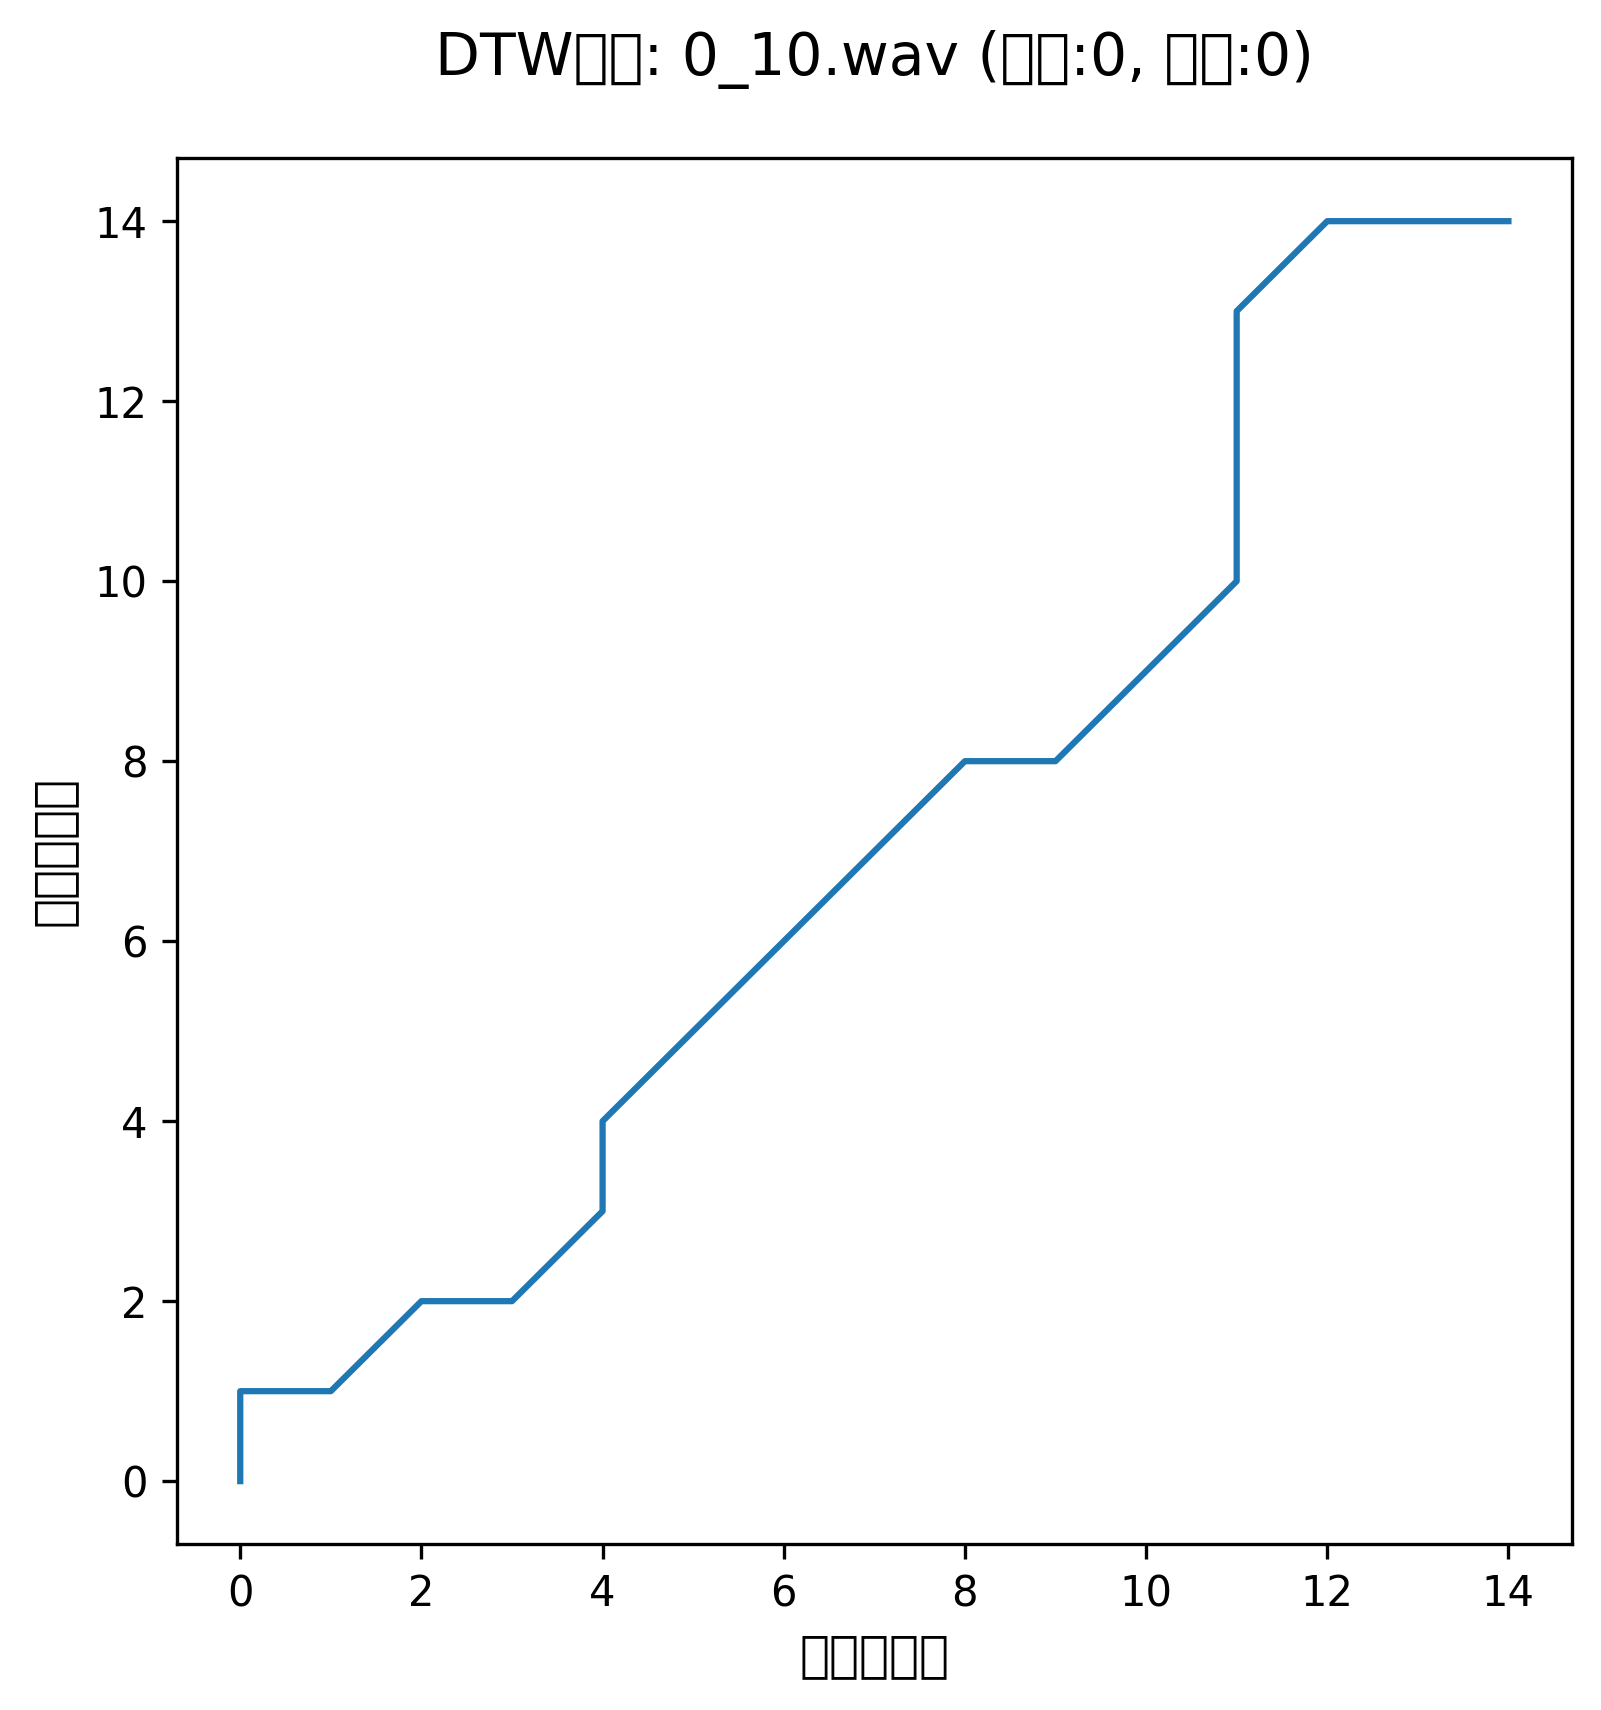
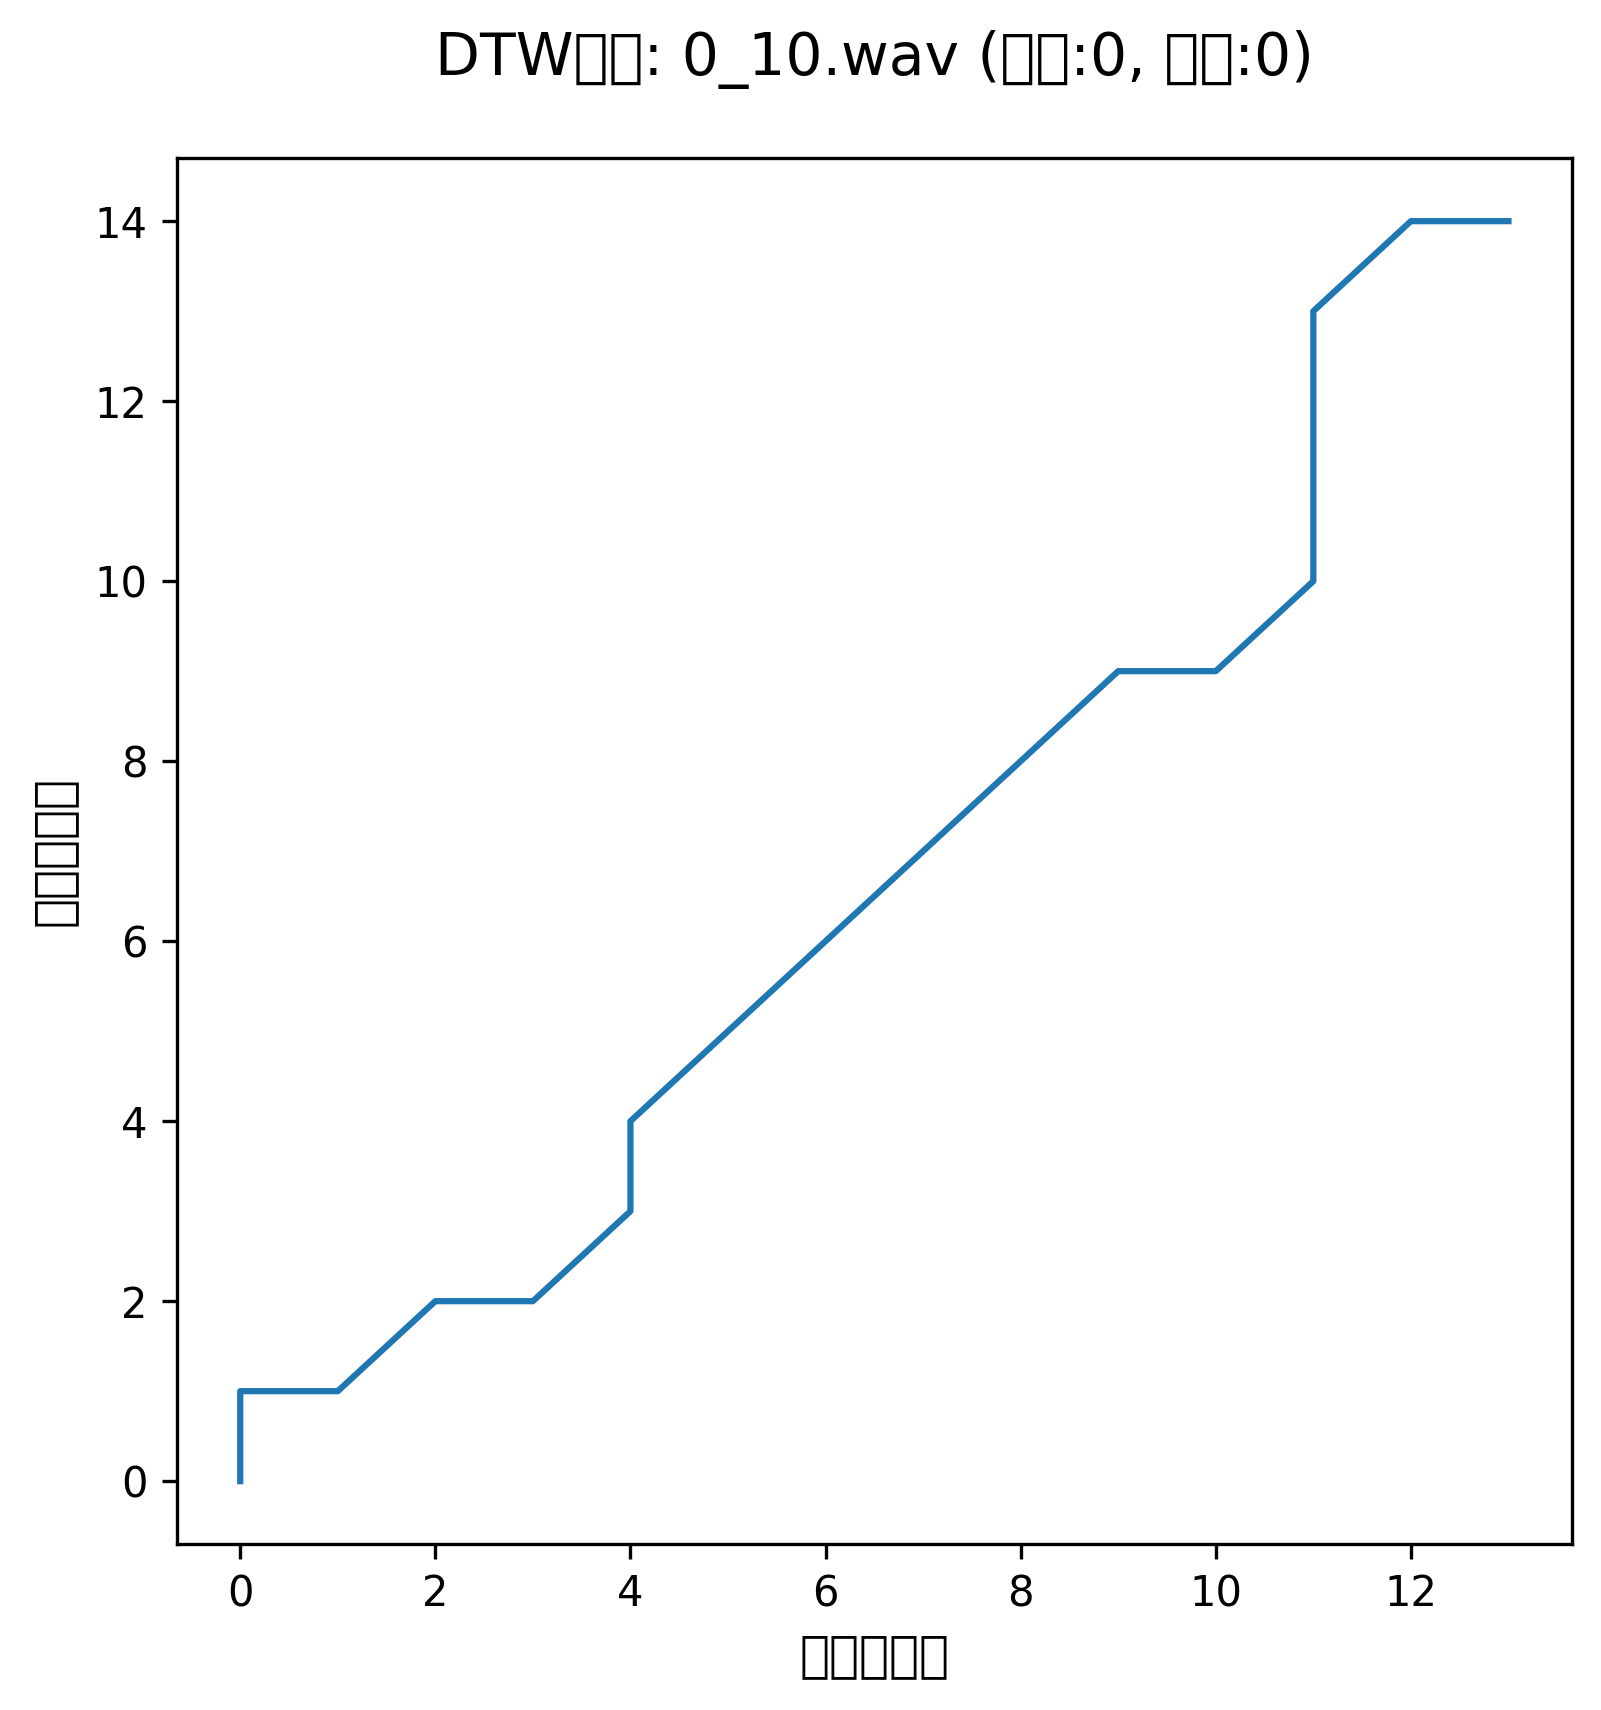
归一化优化算法逻辑

diff --git a/exp3/src/features.py b/exp3/src/features.py
@@ -18,7 +18,7 @@ import numpy as np
 
 def extract_mfcc(file_path):
     """
-    从音频文件中提取MFCC特征
+    从音频文件中提取MFCC特征 (包含静音消除和标准化)
     
     Args:
         file_path: 音频文件路径
@@ -26,13 +26,22 @@ def extract_mfcc(file_path):
     Returns:
         numpy.ndarray: MFCC特征数组，形状为 (n_mfcc, n_frames)
     """
-    # 加载音频文件（保持原始采样率）
+    # 1. 加载音频文件（保持原始采样率）
     y, sr = librosa.load(file_path, sr=None)
     
-    # 应用预加重
+    # --- 优化点1：静音消除 ---
+    # 去除首尾低于 30dB 的静音部分
+    # 这能防止大量静音帧干扰 DTW 匹配
+    y, _ = librosa.effects.trim(y, top_db=30)
+    
+    # 安全检查：如果剪切后音频太短（比如全是噪音被剪没了），这就重新加载原音频或保留部分
+    if len(y) < 1024:
+        y, sr = librosa.load(file_path, sr=None)
+
+    # 2. 应用预加重
     y = librosa.effects.preemphasis(y, coef=config.MFCC_PARAMS['preemph_coef'])
     
-    # 提取MFCC特征
+    # 3. 提取MFCC特征
     mfcc = librosa.feature.mfcc(
         y=y,
         sr=sr,
@@ -41,5 +50,12 @@ def extract_mfcc(file_path):
         hop_length=config.MFCC_PARAMS['hop_length']
     )
     
+    # --- 优化点2：特征标准化 (CMVN) ---
+    # Cepstral Mean and Variance Normalization
+    # 减去均值，除以标准差。消除信道噪声和音量差异的影响。
+    # axis=1 表示沿时间轴计算均值和方差
+    mfcc_mean = np.mean(mfcc, axis=1, keepdims=True)
+    mfcc_std = np.std(mfcc, axis=1, keepdims=True)
+    mfcc = (mfcc - mfcc_mean) / (mfcc_std + 1e-8) # 加极小值防止除零
+    
     return mfcc
-

diff --git a/exp3/src/dtw_core.py b/exp3/src/dtw_core.py
@@ -9,15 +9,20 @@ from dtw import dtw
 
 def calculate_dtw_distance(template_mfcc, input_mfcc):
     """
-    计算两个MFCC特征序列之间的DTW距离
+    计算两个MFCC特征序列之间的DTW距离 (经过长度归一化)
     
     Args:
         template_mfcc: 模板MFCC特征，形状为 (n_mfcc, n_frames)
         input_mfcc: 输入MFCC特征，形状为 (n_mfcc, n_frames)
     
     Returns:
-        float: DTW累计最小距离
+        float: 归一化后的DTW距离
     """
+    # 获取序列长度（帧数）
+    # shape[0]是特征维数(13)，shape[1]是时间帧数
+    len_template = template_mfcc.shape[1]
+    len_input = input_mfcc.shape[1]
+    
     # 注意：librosa输出为(n_features, n_frames)
     # 而dtw-python期望输入为(n_frames, n_features)
     # 因此需要转置
@@ -30,5 +35,10 @@ def calculate_dtw_distance(template_mfcc, input_mfcc):
         dist_method='euclidean'
     )
     
-    return alignment.distance
-
+    # --- 核心修改：距离归一化 ---
+    # 原始 alignment.distance 是累积路径距离。
+    # 序列越长，累积距离越大，导致算法偏向于匹配短的模板。
+    # 除以两者长度之和 (或者路径长度) 进行归一化，使其具有可比性。
+    normalized_distance = alignment.distance / (len_template + len_input)
+    
+    return normalized_distance
